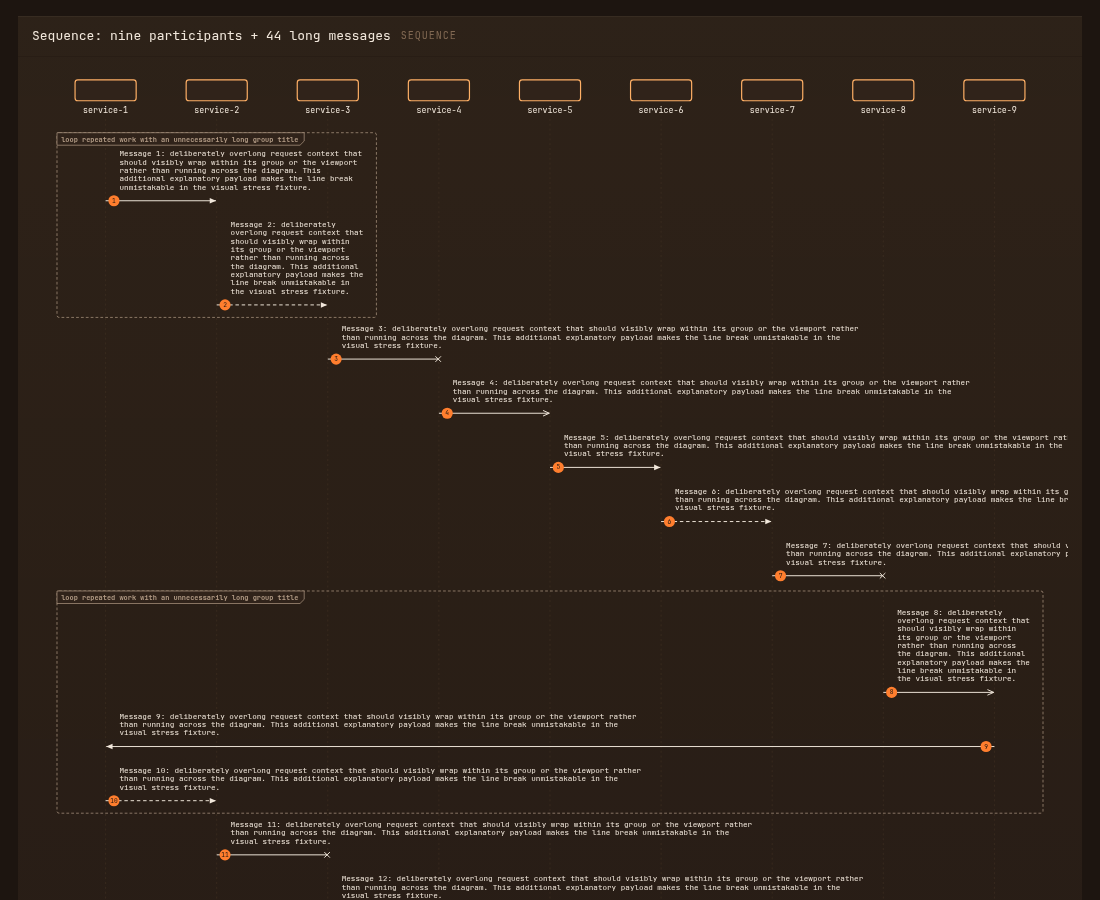
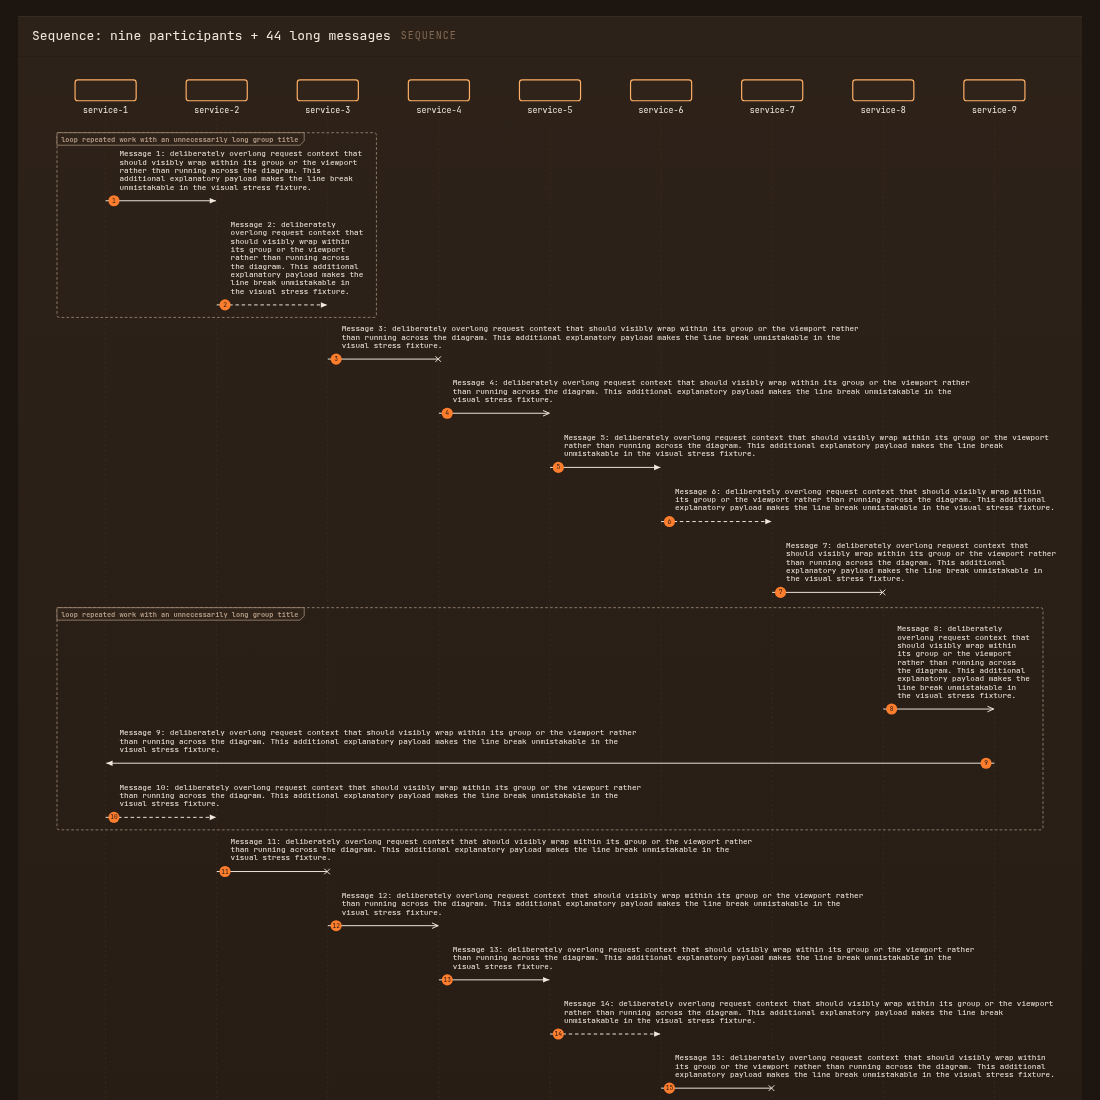
fix: keep sequence labels and tooltips in bounds

diff --git a/src/assets/index.html b/src/assets/index.html
@@ -483,7 +483,7 @@
   .wm-svg .wm-conn-labels .wm-arc-label { stroke-width: 3; }
   .wm-ascii-overlay .wm-conn-labels .wm-arc-label { stroke-width: 2; }
   /* Floating rich tooltip for a hovered marker (built in wmTooltip()). */
-  .wm-tip { position: fixed; z-index: 200; pointer-events: none; display: none; max-width: 260px; background: var(--raised); color: var(--fg); border: 1px solid var(--line); border-radius: 7px; padding: 7px 9px; font-size: 11.5px; line-height: 1.4; box-shadow: 0 8px 24px rgba(0,0,0,0.35); }
+  .wm-tip { position: fixed; z-index: 200; pointer-events: none; display: none; box-sizing: border-box; max-width: min(280px, calc(100vw - 12px)); max-height: calc(100vh - 12px); overflow: hidden; overflow-wrap: anywhere; background: var(--raised); color: var(--fg); border: 1px solid var(--line); border-radius: 7px; padding: 7px 9px; font-size: 11.5px; line-height: 1.4; box-shadow: 0 8px 24px rgba(0,0,0,0.35); }
   .wm-tip.show { display: block; }
   /* Canvas ticks cannot use a native title attribute. Keep their timestamp
      tooltip visually consistent with the rich SVG hover card. */
@@ -4810,7 +4810,7 @@
   // mechanism; the mermaid-export button (see the click handler) regenerates
   // from the rows on demand.
   const SEQ_COL_W = 160, SEQ_MSG_H = 54, SEQ_SELF_H = 68, SEQ_HEAD_H = 64, SEQ_PAD = 26, SEQ_GPAD = 18;
-  const SEQ_LABEL_VIEWPORT_W = 760, SEQ_LABEL_VIEWPORT_RIGHT = 1040, SEQ_LABEL_LINE_H = 12;
+  const SEQ_LABEL_MAX_W = 760, SEQ_LABEL_LINE_H = 12;
   let seqMeasureCtx = null;
   const SEQ_PART_TYPES = ["actor", "database", "boundary", "participant"];
   const SEQ_MSG_TYPES = ["sync", "reply", "async", "lost"];
@@ -4947,14 +4947,15 @@
     const xOf = {};
     parts.forEach((p, i) => { xOf[p] = SEQ_PAD + i * SEQ_COL_W + SEQ_COL_W / 2; });
     const W = SEQ_PAD * 2 + parts.length * SEQ_COL_W;
-    // Ungrouped labels get the full readable viewport width, but always begin
-    // at their message line. Their text may extend into the scrollable diagram;
-    // shifting it left makes the label look attached to a different message.
-    const viewportLabelW = Math.min(SEQ_LABEL_VIEWPORT_W, SEQ_LABEL_VIEWPORT_RIGHT - SEQ_PAD - 4);
+    // Ungrouped labels always begin at their message line. Let them continue
+    // beyond the arrow, but wrap at the SVG's real right edge so later messages
+    // are not clipped. Using a fixed browser-width boundary made mid-diagram
+    // messages wrap far too early when the SVG itself was wider and scaled down.
+    const maxLabelW = SEQ_LABEL_MAX_W;
     msgs.forEach((m) => {
       const preferred = seqLabelX(m, xOf);
-      m.labelWidth = viewportLabelW;
       m.labelX = preferred;
+      m.labelWidth = Math.max(48, Math.min(maxLabelW, W - m.labelX - 16));
     });
     // A group frame is a stronger local boundary than the viewport: messages
     // inside it wrap to that frame's participant span.
@@ -4974,7 +4975,7 @@
           // Keep each label tied to its own message line, while measuring the
           // remaining group space precisely so it cannot cross the frame edge.
           msgs[k].labelX = Math.max(groupLeft + 10, seqLineLabelX(msgs[k], xOf));
-          msgs[k].labelWidth = Math.max(48, Math.min(viewportLabelW, groupRight - msgs[k].labelX - 16));
+          msgs[k].labelWidth = Math.max(48, Math.min(maxLabelW, groupRight - msgs[k].labelX - 16));
         }
       }
       i = j;
@@ -7039,12 +7040,14 @@
     let tip = null;
     const place = (x, y) => {
       if (!tip) return;
-      const w = tip.offsetWidth, h = tip.offsetHeight, pad = 14;
+      const w = tip.offsetWidth, h = tip.offsetHeight, pad = 14, edge = 6;
       let nx = x + pad, ny = y + pad;
-      if (nx + w > window.innerWidth - 6) nx = x - w - pad;
-      if (ny + h > window.innerHeight - 6) ny = y - h - pad;
-      tip.style.left = Math.max(6, nx) + "px";
-      tip.style.top = Math.max(6, ny) + "px";
+      if (nx + w > window.innerWidth - edge) nx = x - w - pad;
+      if (ny + h > window.innerHeight - edge) ny = y - h - pad;
+      nx = Math.min(Math.max(edge, nx), Math.max(edge, window.innerWidth - w - edge));
+      ny = Math.min(Math.max(edge, ny), Math.max(edge, window.innerHeight - h - edge));
+      tip.style.left = nx + "px";
+      tip.style.top = ny + "px";
     };
     const hide = () => { if (tip) tip.classList.remove("show"); };
     document.addEventListener("mouseover", (ev) => {

diff --git a/tests/e2e/specs/sequence.spec.ts b/tests/e2e/specs/sequence.spec.ts
@@ -60,6 +60,18 @@ test.describe('sequence tile', () => {
     });
     expect(labelBottom).toBeLessThan(Number(await nextFlow.getAttribute('y')));
 
+    // Labels near the final participants wrap before the SVG boundary instead
+    // of being clipped off the right side of the diagram.
+    const rightOverflow = await panel.locator('.seq-svg').evaluate((svg) => {
+      const right = (svg as SVGSVGElement).viewBox.baseVal.width;
+      return Math.max(...Array.from(svg.querySelectorAll<SVGGraphicsElement>('.seq-msg-lbl'))
+        .map((label) => {
+          const box = label.getBBox();
+          return box.x + box.width - right;
+        }));
+    });
+    expect(rightOverflow).toBeLessThanOrEqual(1);
+
     // No full-width toggle — the diagram sizes to its participants intrinsically.
     await expect(panel.locator('[data-widen]')).toHaveCount(0);
   });
@@ -79,6 +91,23 @@ test.describe('sequence tile', () => {
     // The hostile `note` value is shown as text, never parsed as an element.
     await expect(tip.locator('img')).toHaveCount(0);
     await expect(tip).toContainText('onerror');
+
+    // Even a pointer at the extreme lower-right corner keeps the rich card
+    // fully inside the browser viewport.
+    await panel.locator('.seq-hit').first().evaluate((hit) => {
+      hit.dispatchEvent(new MouseEvent('mouseover', {
+        bubbles: true,
+        clientX: window.innerWidth - 1,
+        clientY: window.innerHeight - 1,
+      }));
+    });
+    const bounds = await tip.boundingBox();
+    const viewport = page.viewportSize()!;
+    expect(bounds).not.toBeNull();
+    expect(bounds!.x).toBeGreaterThanOrEqual(5);
+    expect(bounds!.y).toBeGreaterThanOrEqual(5);
+    expect(bounds!.x + bounds!.width).toBeLessThanOrEqual(viewport.width - 5);
+    expect(bounds!.y + bounds!.height).toBeLessThanOrEqual(viewport.height - 5);
   });
 
   test('the mermaid button copies a valid sequenceDiagram to the clipboard', async ({ page, context }) => {
